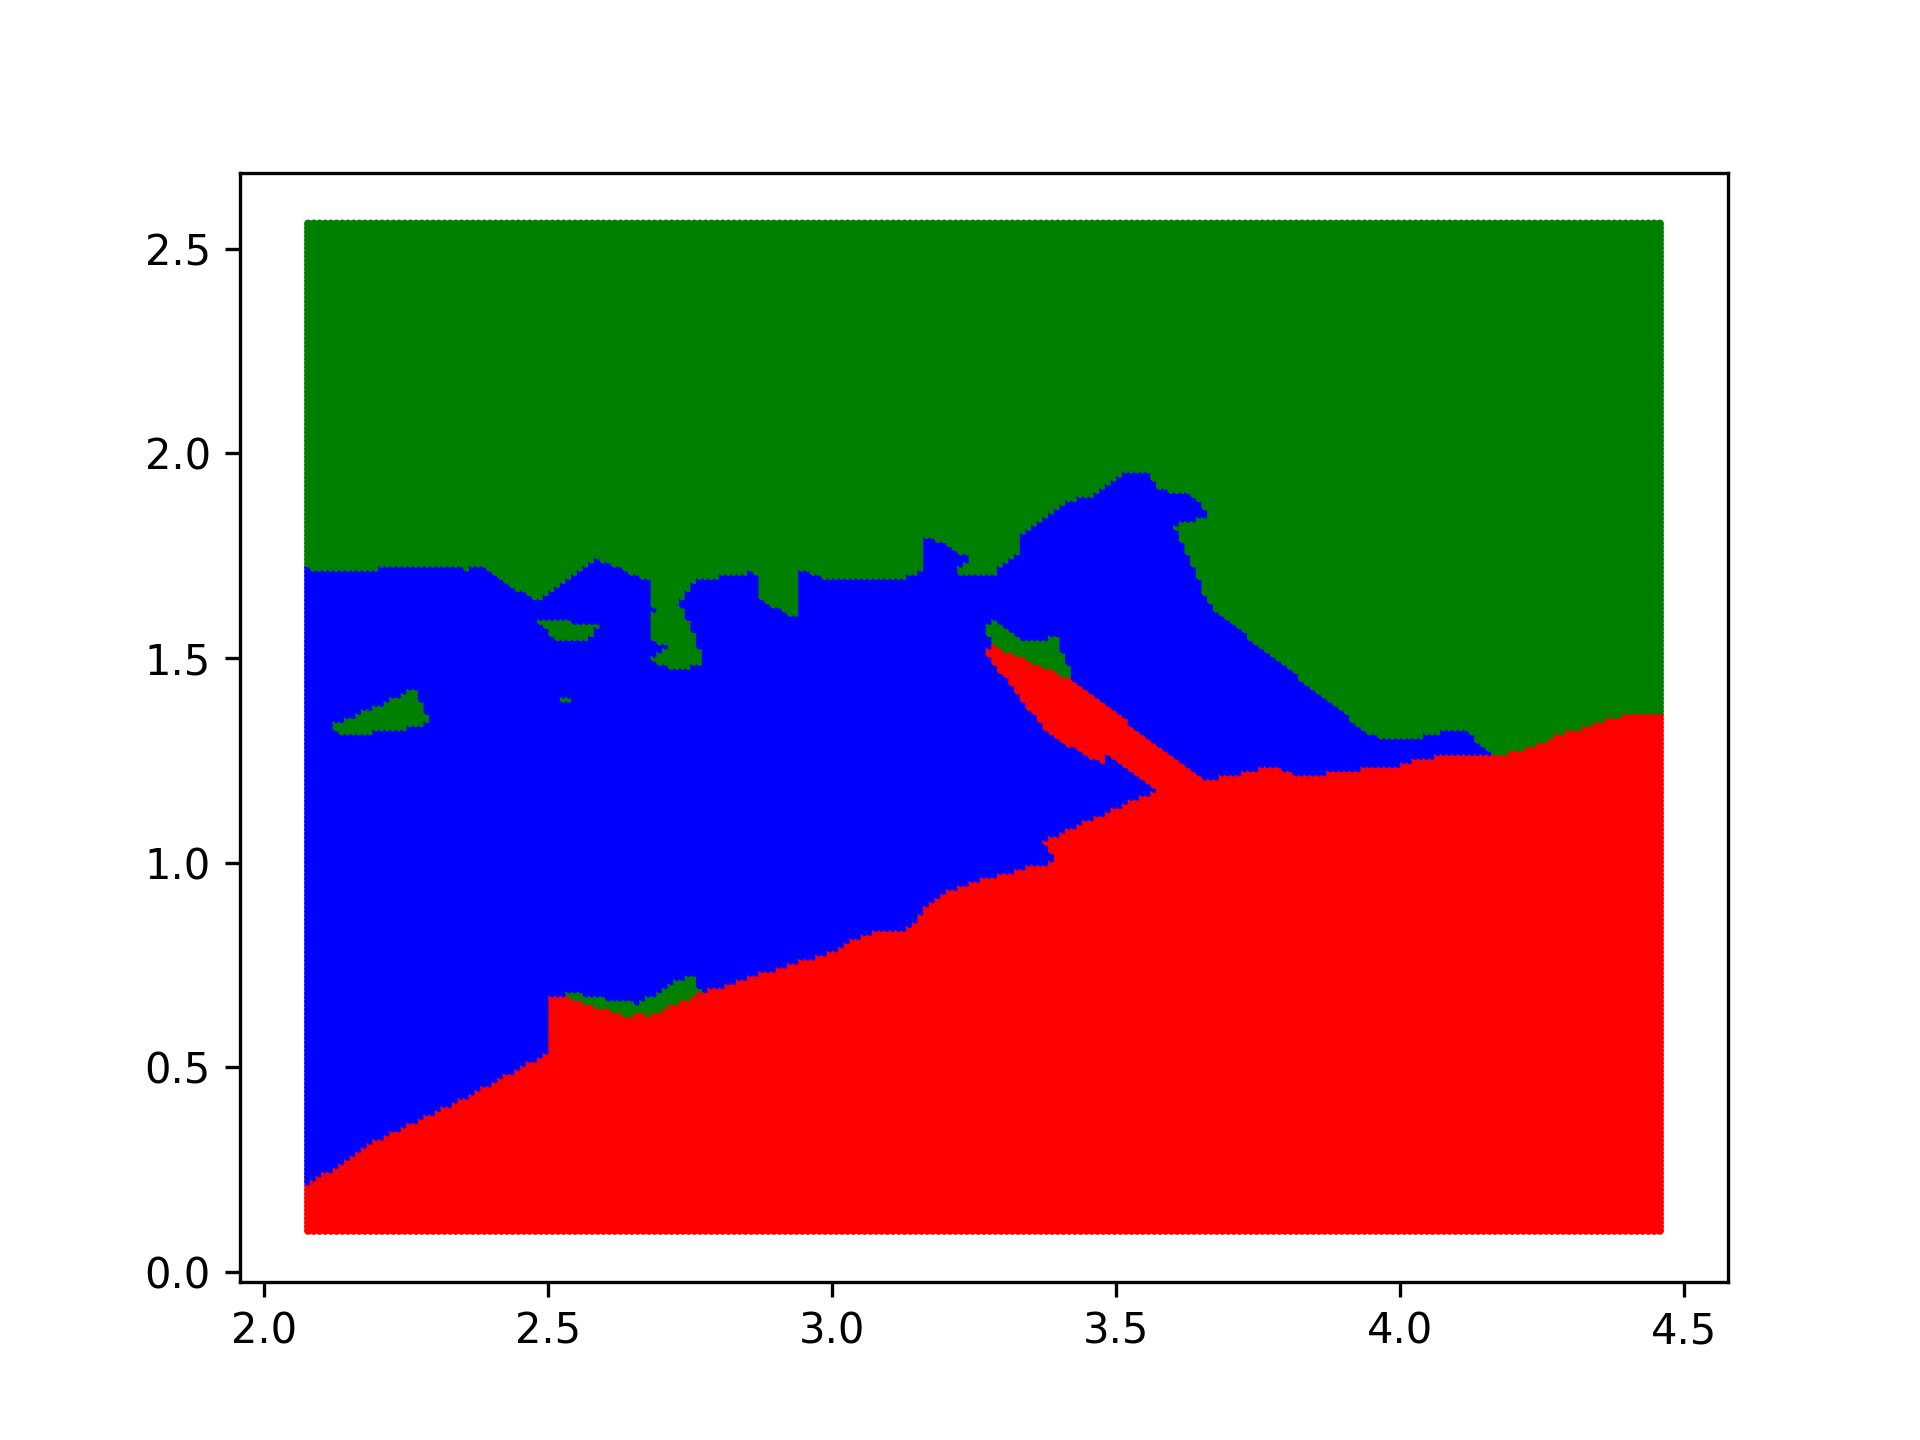
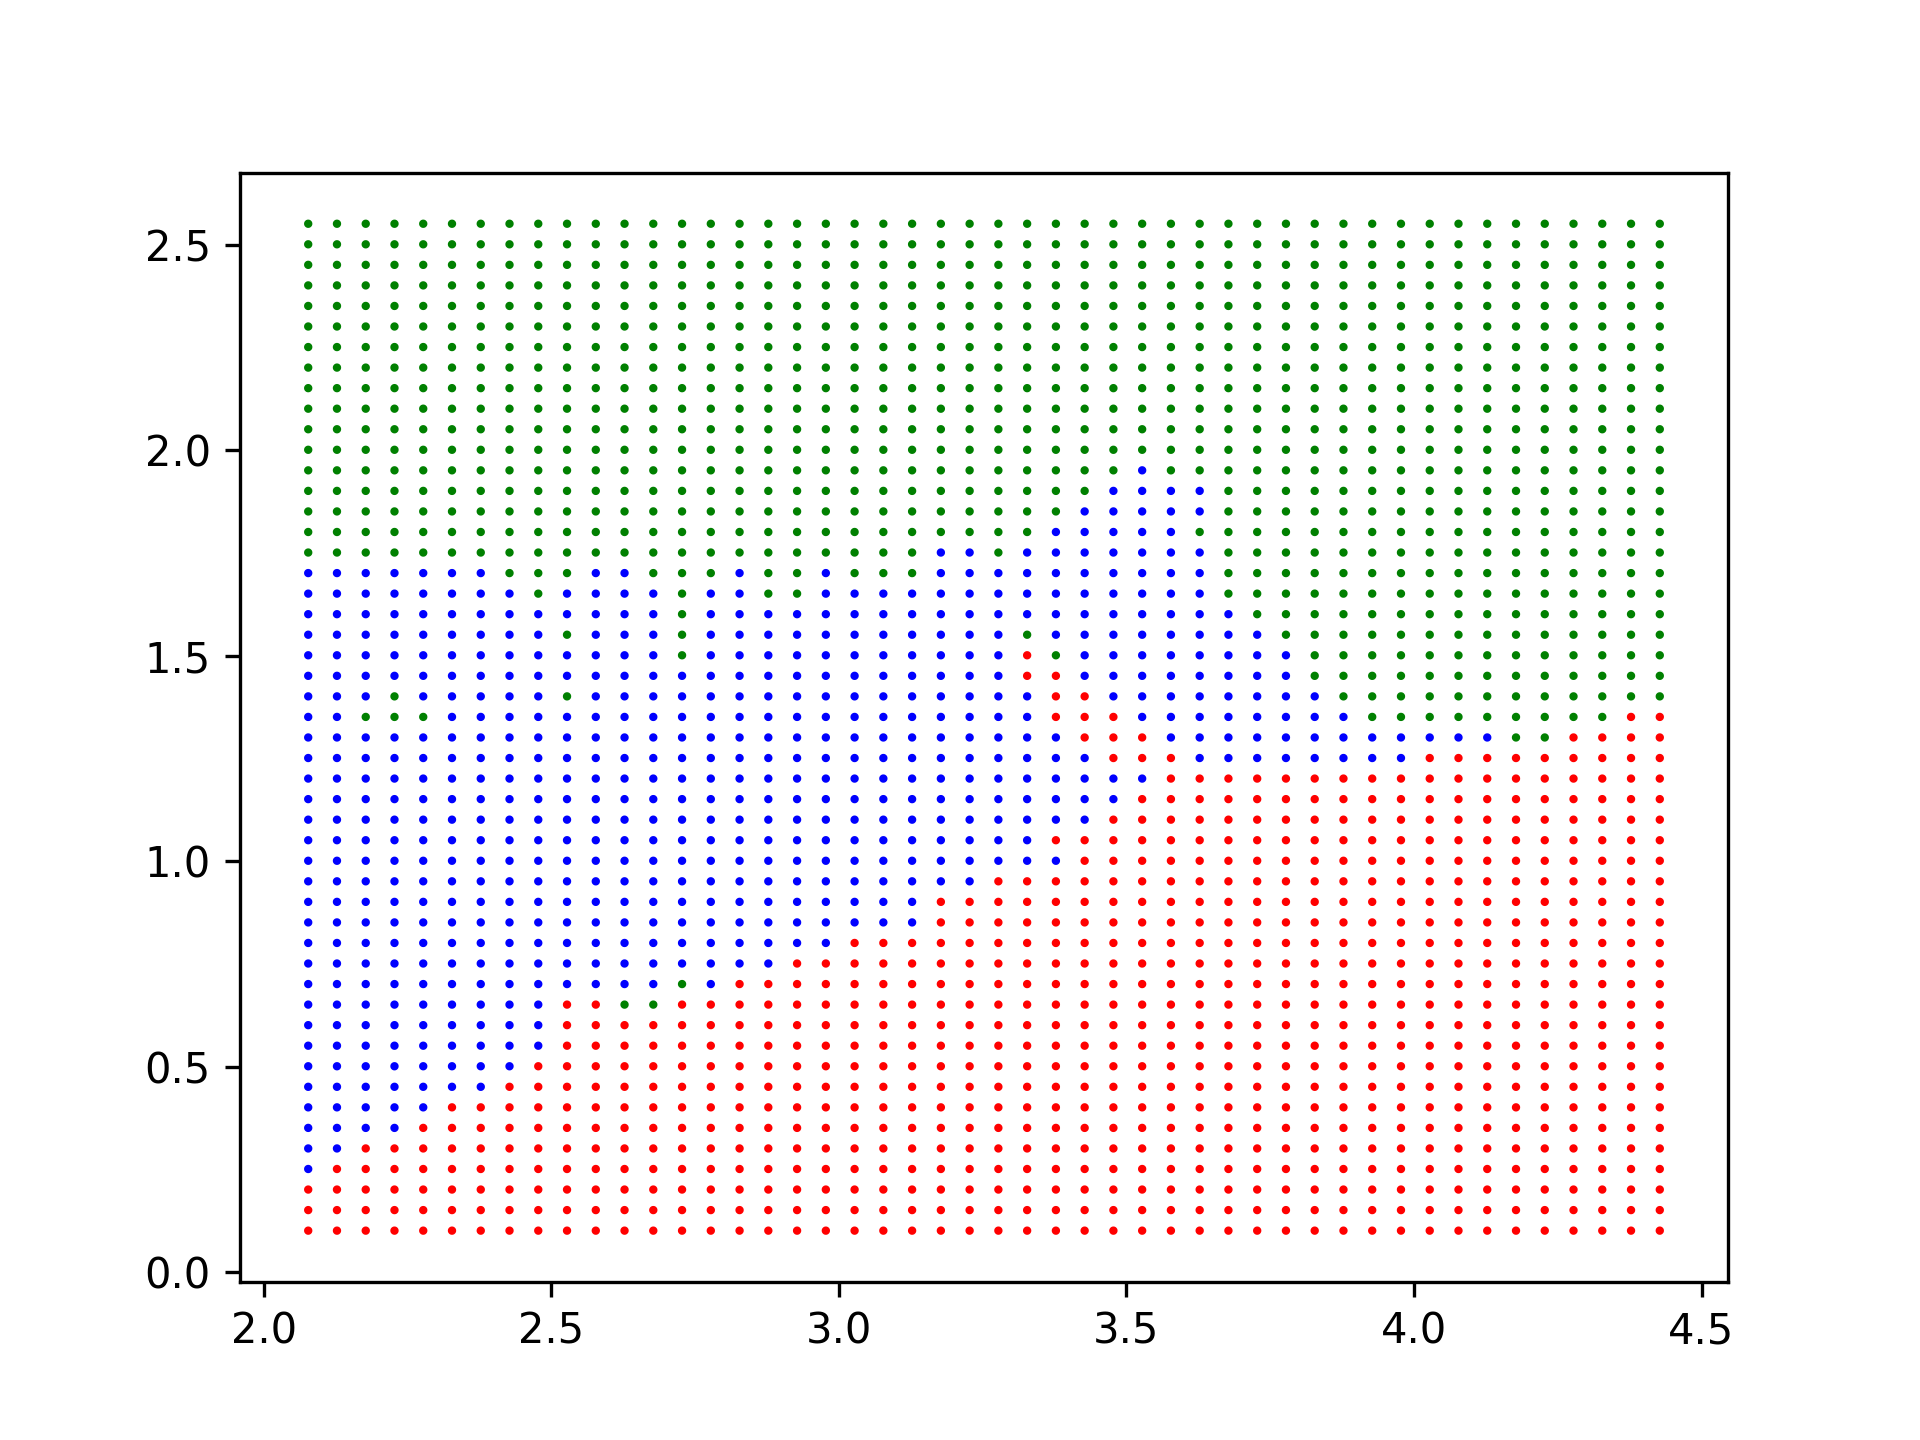
Finished

diff --git a/KNN/ocr.py b/KNN/ocr.py
@@ -1,7 +1,6 @@
 from mnistparser import MnistParser
 from knn import KNeighborsClassifier
-from tqdm import tqdm
-import numpy as np
+from cross_validate import *
 import plotter as pl
 
 # Create a new instance of the parser
@@ -9,6 +8,32 @@ mnist = MnistParser()
 # Create a new instance of the KNN model with K=1
 knn = KNeighborsClassifier(n_neighbors=1)
 
+# ************************************************* Train error
+# Plot of test error with different training size
+tr_sizes = [100, 1000, 2500, 5000, 7500, 10000]
+loocv_errors = []
+
+print('Computing training LOOCV error with this training sizes: ' + str(tr_sizes))
+
+for s in tr_sizes:
+
+    # Select s samples randomly
+    x, y = mnist.select(seed=555, shuffle=True, size=s)
+
+    # Create LOOCV folds
+    x_folds, y_folds = mnist.k_fold(x, y, s)
+
+    # Compute LOOCV error
+    loocv_errors.append(cross_validate(x_folds, y_folds, knn))
+
+for idx, err in enumerate(loocv_errors):
+    print('loocv training error with %s samples: accuracy : %s | error : %s ' % (tr_sizes[idx], (1 - err), err))
+
+
+# Print errors
+pl.plot(tr_sizes, loocv_errors, title='Train errors', legend='loocv error', color='blue', xlabel='train size', ylabel='error', fname='ocr_loocv')
+
+# ************************************************* Cross validation error
 # Use the parse to select randomly 1000 samples out of the 10000 available
 print("Selecting 1000 samples randomly")
 x, y = mnist.select(seed=555, shuffle=True, size=1000)
@@ -28,50 +53,7 @@ for k in folds:
     # x_folds and y_folds are arrays whose size is 1000 / k, where k is the size of the fold
     x_folds, y_folds = mnist.k_fold(x, y, k)
 
-    # We have this array to save the temporary errors while performing cross validation for each fold
-    errors = []
-    # Select one of the folds sequentially
-    # Use the selected one as test and the others as training samples
-    # We use pop/insert macros to work on the fold arrays and ensure consistency between loops
-    for selected in tqdm(range(len(x_folds))):
-        x_test = x_folds.pop(selected)
-        y_test = y_folds.pop(selected)
-        x_train, y_train = [], []
-
-        # Merge all the x folds in a single training vector
-        for e in x_folds:
-            x_train += e
-
-        # Merge all the y folds in a single training vector
-        for e in y_folds:
-            y_train += e
-
-        # Fit model
-        knn.fit(x_train, y_train)
-
-        # Predict label
-        preds = knn.predict(x_test)
-
-        # Convert the real labels to np array for convenience
-        real = np.array(y_test)
-
-        # Compute the error for the current fold
-        wrong_preds = 0
-        for idx, label in enumerate(real):
-            if label != preds[idx]:
-                wrong_preds += 1
-
-        # Add the computed error to the temporary error container
-        errors.append(wrong_preds / len(preds))
-
-        # Reinsert the fold used for testing in the fold array
-        x_folds.insert(selected, x_test)
-        y_folds.insert(selected, y_test)
-
-    # Before starting over with a different k value for a new cross validation computation
-    # Compute the cross validation error (ce) and add it to the main cross validation error container
-    ce = sum(errors) / len(errors)
-    cross_error.append(ce)
+    cross_error.append(cross_validate(x_folds, y_folds, knn))
 
 # Print results
 for idx, err in enumerate(cross_error):

diff --git a/KNN/cross_validate.py b/KNN/cross_validate.py
@@ -1,0 +1,53 @@
+from tqdm import tqdm
+import numpy as np
+
+
+def cross_validate(x_folds, y_folds, model):
+
+    x_folds = list(x_folds)
+    y_folds = list(y_folds)
+
+    # We have this array to save the temporary errors while performing cross validation for each fold
+    errors = []
+    # Select one of the folds sequentially
+    # Use the selected one as test and the others as training samples
+    # We use pop/insert macros to work on the fold arrays and ensure consistency between loops
+    for selected in tqdm(range(len(x_folds))):
+        x_test = x_folds.pop(selected)
+        y_test = y_folds.pop(selected)
+        x_train, y_train = [], []
+
+        # Merge all the x folds in a single training vector
+        for e in x_folds:
+            x_train += e
+
+        # Merge all the y folds in a single training vector
+        for e in y_folds:
+            y_train += e
+
+        # Fit model
+            model.fit(x_train, y_train)
+
+        # Predict label
+        preds = model.predict(x_test)
+
+        # Convert the real labels to np array for convenience
+        real = np.array(y_test)
+
+        # Compute the error for the current fold
+        wrong_preds = 0
+        for idx, label in enumerate(real):
+            if label != preds[idx]:
+                wrong_preds += 1
+
+        # Add the computed error to the temporary error container
+        errors.append(wrong_preds / len(preds))
+
+        # Reinsert the fold used for testing in the fold array
+        x_folds.insert(selected, x_test)
+        y_folds.insert(selected, y_test)
+
+    # Before starting over with a different k value for a new cross validation computation
+    # Compute the cross validation error (ce) and add it to the main cross validation error container
+    ce = sum(errors) / len(errors)
+    return ce

diff --git a/KNN/iris.py b/KNN/iris.py
@@ -2,11 +2,17 @@ from irisparser import IrisParser
 from knn import KNeighborsClassifier
 import numpy as np
 from matplotlib import pyplot as plt
+from cross_validate import *
+import plotter as plotter
 
 # Mesh resolutions
-resolution = 0.01
+resolution = 0.05
 
-for df in ['iris_m10', 'iris_m20', 'iris_m30', 'iris_m50']:
+loocvs = []
+
+dsets = ['iris_m10', 'iris_m20', 'iris_m30', 'iris_m50']
+
+for df in dsets:
 
     print('Working on dataset = ' + df)
 
@@ -18,6 +24,23 @@ for df in ['iris_m10', 'iris_m20', 'iris_m30', 'iris_m50']:
 
     # Get features and labels
     features, labels = iris.parse(shuffle=False)
+
+    # ************************************************* Train error
+    print('Computing training LOOCV error')
+
+    # Create LOOCV folds
+    x_folds, y_folds = iris.k_fold(features, labels, len(features))
+
+    # Compute LOOCV error
+    loocv_e = cross_validate(x_folds, y_folds, knn)
+
+    # Add this error to a list, for later plotting
+    loocvs.append(loocv_e)
+
+    print('loocv training error for dataset %s: accuracy : %s | error : %s ' % (df, (1 - loocv_e), loocv_e))
+
+    features = np.array(features)
+    labels = np.array(labels)
 
     # We have 2D features, lets call one axis x and the other y
     x = features[:, 0]
@@ -65,3 +88,7 @@ for df in ['iris_m10', 'iris_m20', 'iris_m30', 'iris_m50']:
     plt.show()
     name = df+'.png'
     fig.savefig(name, dpi=300)
+
+
+# Plot loocv errors for different datasets
+plotter.plot(dsets, loocvs, title='Train errors', legend='loocv error', color='blue', xlabel='dataset', ylabel='error', fname='iris_loocv')

diff --git a/KNN/irisparser.py b/KNN/irisparser.py
@@ -1,6 +1,7 @@
 import pandas as pd
 import random
 import numpy as np
+import math
 
 
 # Parser and formatter for iris dataset
@@ -33,7 +34,25 @@ class IrisParser:
         if shuffle:
             random.shuffle(container)
 
-        return np.array(x), np.array(y).transpose()
+        return x, np.array(y).transpose().tolist()
+
+    def k_fold(self, x, y, k):
+        size = len(y)
+        fold_size = math.floor(size / k)
+        rest = size % k
+        x_folds = []
+        y_folds = []
+        for i in range(k):
+            idx = i * fold_size
+            if i == k - 1:
+                x_folds.append(x[idx:idx + fold_size + rest])
+                y_folds.append(y[idx:idx + fold_size + rest])
+
+            else:
+                x_folds.append(x[idx:idx + fold_size])
+                y_folds.append(y[idx:idx + fold_size])
+
+        return x_folds, y_folds
 
 
 def _flip_val(v, seed=None):

diff --git a/Plot/plotter.py b/Plot/plotter.py
@@ -1,7 +1,7 @@
 from matplotlib import pyplot as plt
 
 
-def plot(x, y, title='Graph', legend='y', color='blue', xlabel='x', ylabel='y'):
+def plot(x, y, title='Graph', legend='y', color='blue', xlabel='x', ylabel='y', fname='graph'):
     fig = plt.figure()
     plt.plot(x, y, 'o-', label=legend, color=color)
     plt.title(title)
@@ -9,5 +9,5 @@ def plot(x, y, title='Graph', legend='y', color='blue', xlabel='x', ylabel='y'):
     plt.xlabel(xlabel)
     plt.grid(True, linestyle=':')
     plt.legend(loc="upper right")
-    fig.savefig('ocr.png', dpi=300)
+    fig.savefig(fname + '.png', dpi=300)
     return plt
